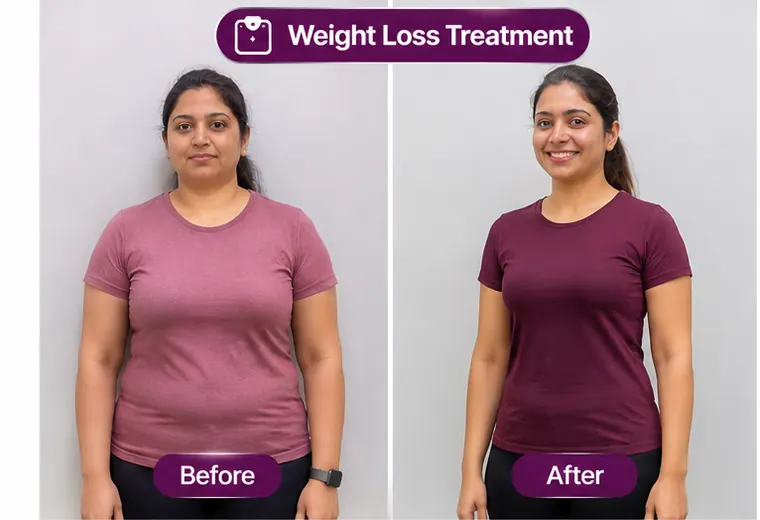
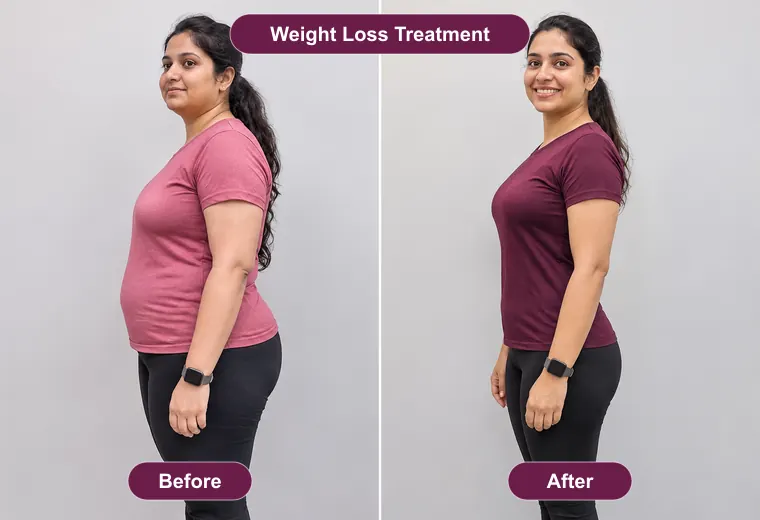
Before & After: new weight loss panel

diff --git a/CREDITS.md b/CREDITS.md
@@ -41,4 +41,4 @@ The social-share image (`public/og-image.jpg`) is composed from `hero-portrait.w
 
 ## Before & after panels
 
-`src/assets/media/results/*.webp` were cropped from images supplied by the site owner ("Laser Treatment Facial Hair Before and After.png", "Hair Fall Treatment Before and After.png"). They are shown on the Home page as **illustrative images, not actual client results**, with that disclaimer visible. Replace them with genuine client photos (with written consent) when available, then remove the disclaimer.
+`src/assets/media/results/*.webp` were cropped from images supplied by the site owner ("Laser Treatment Facial Hair Before and After.png", "Hair Fall Treatment Before and After.png", "Before and After Fitness Portrait.png" with Before/After labels added). They are shown on the Home page as **illustrative images, not actual client results**, with that disclaimer visible. Replace them with genuine client photos (with written consent) when available, then remove the disclaimer.
